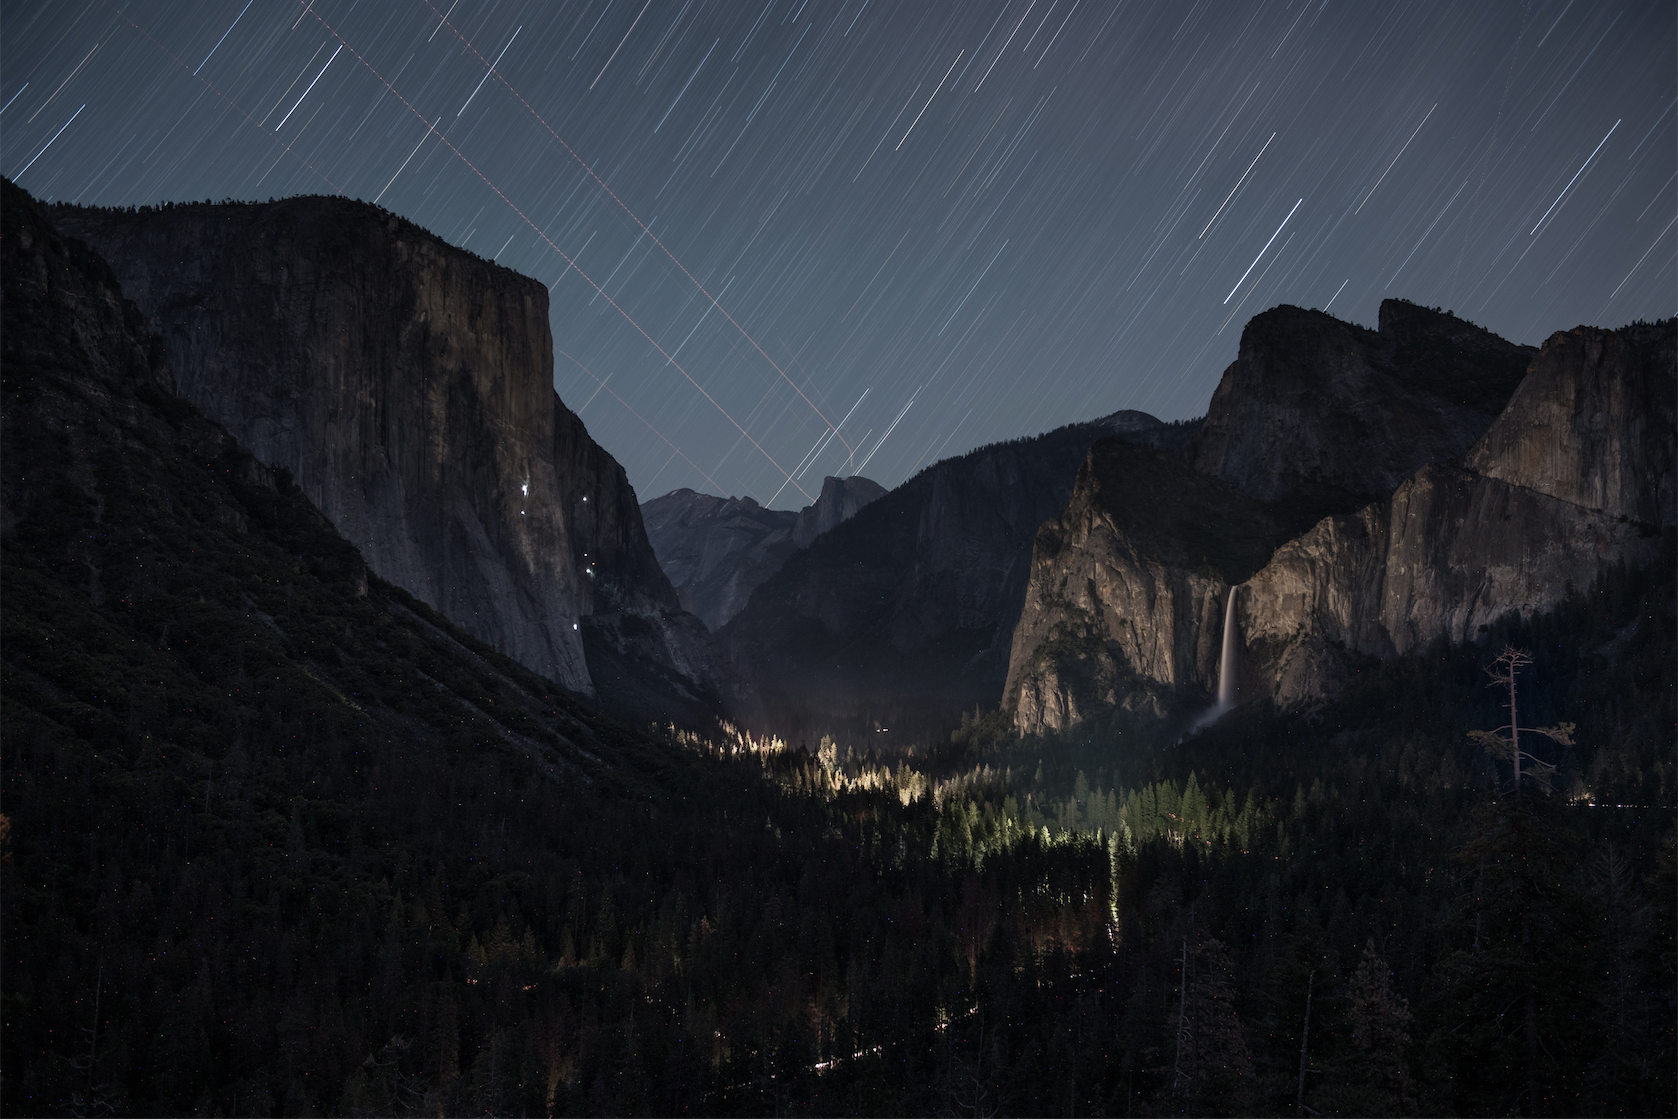
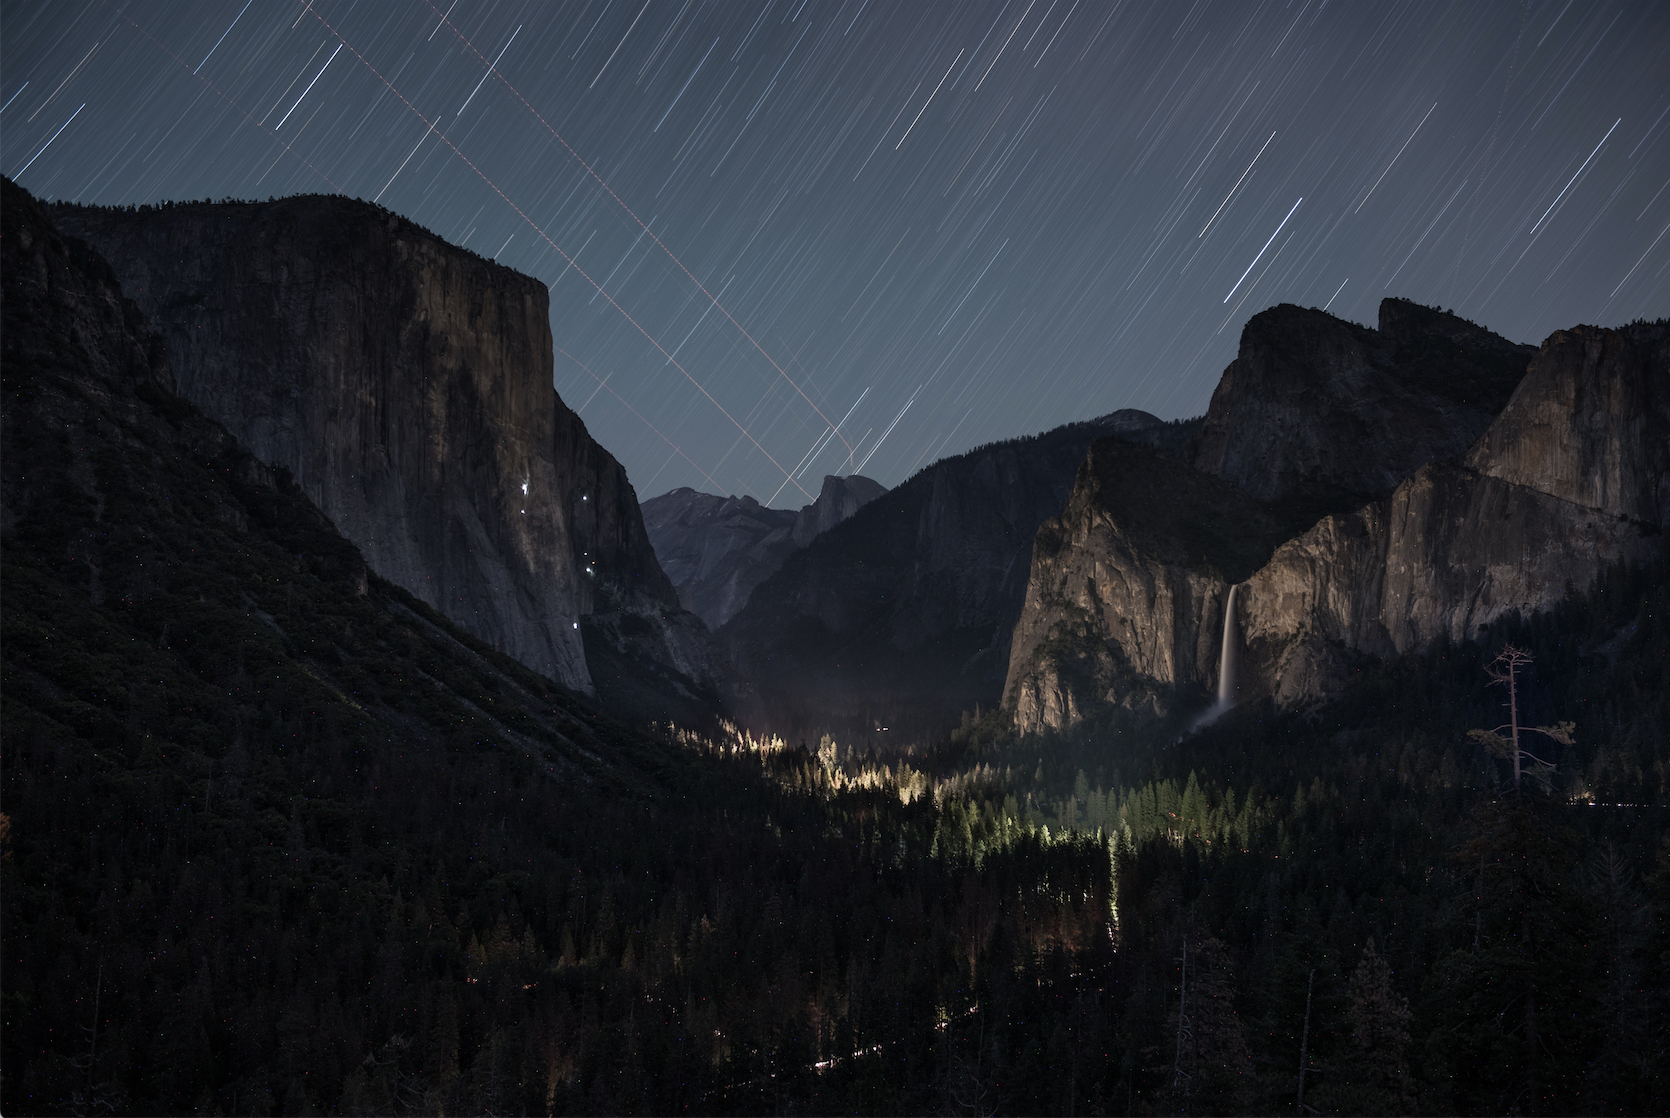
trying to add some CSS

diff --git a/index.html b/index.html
@@ -8,6 +8,6 @@
   <body>
     <center> <h1> Website 1 </h1> </center>
     <p> Here is a picture from Yosemite. I forgot to turn on long exposure noise reduction. Ouch. </p>
-    <center> <img src = "/Images/Tunnel-View.png" alt = "Tunnel View Star Trails" width="839" height="560"/> </center>
+    <center> <img src = "/Images/Tunnel-View.png" alt = "Tunnel View Star Trails" width="835" height="559"/> </center>
   </body>
 </html>
